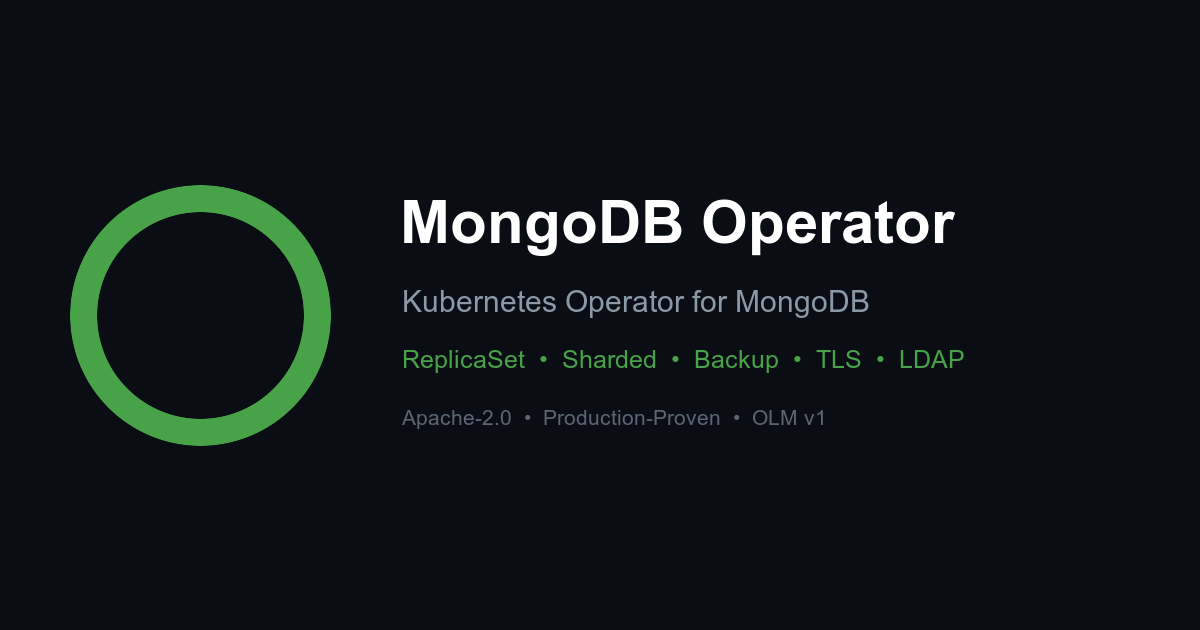
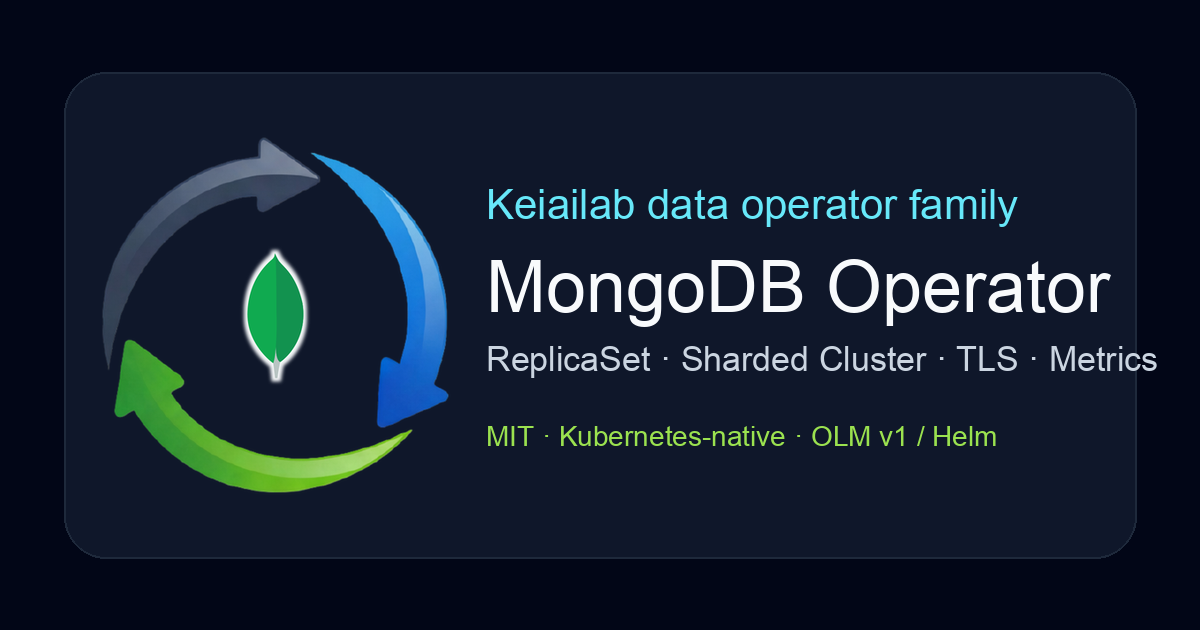
docs(branding): apply centered service symbol

Changed region(s): [[0.0308, 0.2111, 0.9867, 0.7841], [0.0925, 0.8746, 0.925, 0.9048], [0.0925, 0.0905, 0.925, 0.1206]]

diff --git a/docs/branding.md b/docs/branding.md
@@ -28,14 +28,15 @@ This document is the canonical reference for `mongodb-operator` branding decisio
 
 | Asset | URL | Usage |
 |---|---|---|
-| Primary logo (current) | `https://github.com/keiailab.png` | README header (all repos), slides |
-| Primary logo (SVG, planned) | `https://keiailab.com/assets/logo.svg` *(not yet published)* | future replacement for GitHub avatar |
-| Mono mark (planned) | `https://keiailab.com/assets/mark.svg` *(not yet published)* | Favicon, social cards |
+| Primary logo (current) | `docs/branding/symbol.png` | README header (all repos), slides |
+| Repository wordmark | `docs/branding/logo.png` | Project pages |
+| Social cover | `docs/branding/cover.png` | Social cards and launch posts |
+| Current favicon | `https://keiailab.com/favicon.ico` | Favicon, social cards |
 | Wordmark (planned) | `https://keiailab.com/assets/wordmark.svg` *(not yet published)* | Footer, dark backgrounds |
 
-**Logo placement**: Top-center of README, width 120px. Always link to https://github.com/keiailab.
+**Logo placement**: Top-center of README, width 96px. Always link to https://keiailab.com.
 
-**Migration note (2026-05-21)**: until `keiailab.com/assets/*.svg` is published, all repos in the family use the GitHub avatar (`https://github.com/keiailab.png`) as canonical primary logo. The SVG row is reserved for the future migration.
+**Symbol note (2026-06-11)**: the primary symbol keeps the Keiailab rotating-arrow mark and replaces only the removed center sphere with the service icon.
 
 **Clear space**: Minimum padding around logo = 25% of logo width.
 
@@ -87,7 +88,7 @@ GitHub README 의 shield.io badge 는 위 hex 사용 권장.
 
 ```markdown
 <p align="center">
-  <img src="https://github.com/keiailab.png" alt="keiailab" width="120"/>
+  <img src="docs/branding/symbol.png" alt="keiailab" width="96"/>
 </p>
 
 # mongodb-operator
@@ -95,7 +96,7 @@ GitHub README 의 shield.io badge 는 위 hex 사용 권장.
 > **MIT MongoDB Operator for Kubernetes — ReplicaSet + Sharded Cluster + Backup, vanilla MongoDB 7.0+**
 
 <p align="center">
-  <a href="LICENSE"><img src="https://img.shields.io/badge/License-MIT-yellow.svg" alt="License"/></a>
+  <a href="LICENSE"><img src="https://img.shields.io/badge/License-MIT-0EA5A8.svg" alt="License"/></a>
   <!-- 기존 shield.io badges 유지 + 정합 -->
 </p>
 

diff --git a/docs/i18n/ko/branding.md b/docs/i18n/ko/branding.md
@@ -30,14 +30,15 @@
 
 | 자산 | URL | 용도 |
 |---|---|---|
-| Primary logo (현재) | `https://github.com/keiailab.png` | README header (전 리포), 슬라이드 |
-| Primary logo (SVG, 예정) | `https://keiailab.com/assets/logo.svg` *(아직 미공개)* | GitHub avatar 의 향후 대체 |
-| Mono mark (예정) | `https://keiailab.com/assets/mark.svg` *(아직 미공개)* | Favicon, 소셜 카드 |
+| Primary logo (현재) | `docs/branding/symbol.png` | README header (전 리포), 슬라이드 |
+| Repository wordmark | `docs/branding/logo.png` | Project page |
+| Social cover | `docs/branding/cover.png` | Social cards 및 launch posts |
+| Current favicon | `https://keiailab.com/favicon.ico` | Favicon, social cards |
 | Wordmark (예정) | `https://keiailab.com/assets/wordmark.svg` *(아직 미공개)* | Footer, 어두운 배경 |
 
-**Logo placement**: README 의 상단 중앙, 너비 120px. 항상 https://github.com/keiailab 으로 링크.
+**Logo placement**: README 의 상단 중앙, 너비 96px. 항상 https://keiailab.com 으로 링크.
 
-**Migration note (2026-05-21)**: `keiailab.com/assets/*.svg` 가 게시되기 전까지, family 전 리포는 GitHub avatar (`https://github.com/keiailab.png`) 를 canonical primary logo 로 사용. SVG 행은 향후 마이그레이션용 예약.
+**Symbol note (2026-06-11)**: primary symbol 은 Keiailab rotating-arrow mark 를 유지하고, 제거된 중앙 구 위치에만 service icon 을 둔다.
 
 **Clear space**: 로고 주위 최소 여백 = 로고 너비의 25%.
 
@@ -89,7 +90,7 @@ GitHub README 의 shield.io badge 는 위 hex 사용 권장.
 
 ```markdown
 <p align="center">
-  <img src="https://github.com/keiailab.png" alt="keiailab" width="120"/>
+  <img src="docs/branding/symbol.png" alt="keiailab" width="96"/>
 </p>
 
 # mongodb-operator
@@ -97,7 +98,7 @@ GitHub README 의 shield.io badge 는 위 hex 사용 권장.
 > **MIT MongoDB Operator for Kubernetes — ReplicaSet + Sharded Cluster + Backup, vanilla MongoDB 7.0+**
 
 <p align="center">
-  <a href="LICENSE"><img src="https://img.shields.io/badge/License-MIT-yellow.svg" alt="License"/></a>
+  <a href="LICENSE"><img src="https://img.shields.io/badge/License-MIT-0EA5A8.svg" alt="License"/></a>
   <!-- 기존 shield.io badges 유지 + 정합 -->
 </p>
 

diff --git a/docs/i18n/zh/branding.md b/docs/i18n/zh/branding.md
@@ -28,14 +28,15 @@
 
 | 资源 | URL | 用途 |
 |---|---|---|
-| Primary logo (当前) | `https://github.com/keiailab.png` | README header (全部仓库)、幻灯片 |
-| Primary logo (SVG, 计划) | `https://keiailab.com/assets/logo.svg` *(尚未发布)* | GitHub avatar 的未来替代 |
-| Mono mark (计划) | `https://keiailab.com/assets/mark.svg` *(尚未发布)* | Favicon、社交卡片 |
+| Primary logo (当前) | `docs/branding/symbol.png` | README header (全部仓库)、幻灯片 |
+| Repository wordmark | `docs/branding/logo.png` | Project pages |
+| Social cover | `docs/branding/cover.png` | Social cards and launch posts |
+| Current favicon | `https://keiailab.com/favicon.ico` | Favicon, social cards |
 | Wordmark (计划) | `https://keiailab.com/assets/wordmark.svg` *(尚未发布)* | 页脚、深色背景 |
 
-**Logo placement**: README 顶部居中,宽度 120px。始终链接到 https://github.com/keiailab。
+**Logo placement**: README 顶部居中,宽度 96px。始终链接到 https://keiailab.com。
 
-**Migration note (2026-05-21)**: 在 `keiailab.com/assets/*.svg` 发布之前,family 全部仓库均使用 GitHub avatar (`https://github.com/keiailab.png`) 作为 canonical primary logo。SVG 行为未来迁移预留。
+**Symbol note (2026-06-11)**: primary symbol keeps the Keiailab rotating-arrow mark and places the service icon at the removed center sphere position.
 
 **Clear space**: Logo 周围最小留白 = logo 宽度的 25%。
 
@@ -87,7 +88,7 @@ GitHub README 的 shield.io badge 建议使用上述 hex。
 
 ```markdown
 <p align="center">
-  <img src="https://github.com/keiailab.png" alt="keiailab" width="120"/>
+  <img src="docs/branding/symbol.png" alt="keiailab" width="96"/>
 </p>
 
 # mongodb-operator
@@ -95,7 +96,7 @@ GitHub README 的 shield.io badge 建议使用上述 hex。
 > **MIT MongoDB Operator for Kubernetes — ReplicaSet + Sharded Cluster + Backup, vanilla MongoDB 7.0+**
 
 <p align="center">
-  <a href="LICENSE"><img src="https://img.shields.io/badge/License-MIT-yellow.svg" alt="License"/></a>
+  <a href="LICENSE"><img src="https://img.shields.io/badge/License-MIT-0EA5A8.svg" alt="License"/></a>
   <!-- 기존 shield.io badges 유지 + 정합 -->
 </p>
 

diff --git a/README.md b/README.md
@@ -1,14 +1,26 @@
+<p align="center">
+  <a href="https://keiailab.com">
+    <img src="docs/branding/symbol.png" alt="keiailab" width="96"/>
+  </a>
+</p>
+
 # mongodb-operator
+
+> **Keiailab data operator family** — MongoDB replica sets and sharded clusters on Kubernetes with TLS, metrics, and declarative topology.
+
+<p align="center">
+  <a href="LICENSE"><img src="https://img.shields.io/badge/License-MIT-0EA5A8.svg" alt="License: MIT"/></a>
+  <a href="go.mod"><img src="https://img.shields.io/badge/Go-1.26-00ADD8?logo=go&logoColor=white" alt="Go 1.26"/></a>
+  <a href="#supported-mongodb-versions"><img src="https://img.shields.io/badge/MongoDB-8.0%20|%208.2%20|%208.3-47A248?logo=mongodb&logoColor=white" alt="MongoDB 8.x"/></a>
+  <a href="#requirements"><img src="https://img.shields.io/badge/Kubernetes-1.26%2B-326CE5?logo=kubernetes&logoColor=white" alt="Kubernetes 1.26+"/></a>
+  <a href="https://github.com/keiailab/mongodb-operator/pkgs/container/mongodb-operator"><img src="https://img.shields.io/badge/GHCR-mongodb--operator-0EA5A8?logo=github&logoColor=white" alt="GHCR image"/></a>
+  <a href="https://github.com/keiailab/mongodb-operator/discussions"><img src="https://img.shields.io/github/discussions/keiailab/mongodb-operator?label=discussions&logo=github" alt="GitHub Discussions"/></a>
+</p>
 
 A Kubernetes operator for running MongoDB on Kubernetes. It manages the lifecycle
 of MongoDB replica sets and sharded clusters through Custom Resources — bootstrapping
 the cluster, creating the admin user, wiring up TLS and metrics, and reconciling
 the desired topology.
-
-[![License: MIT](https://img.shields.io/badge/License-MIT-yellow.svg)](LICENSE)
-[![Go](https://img.shields.io/badge/Go-1.26-00ADD8?logo=go)](go.mod)
-[![MongoDB](https://img.shields.io/badge/MongoDB-8.0%20|%208.2%20|%208.3-47A248?logo=mongodb)](#supported-mongodb-versions)
-[![Kubernetes](https://img.shields.io/badge/Kubernetes-1.26+-326CE5?logo=kubernetes)](#requirements)
 
 The operator does not bundle or redistribute MongoDB. It pulls the official
 `mongo` community images at runtime and orchestrates them; you remain responsible

diff --git a/docs/i18n/ko/readme.md b/docs/i18n/ko/readme.md
@@ -1,5 +1,5 @@
 <p align="center">
-  <img src="https://github.com/keiailab.png" alt="keiailab" width="120"/>
+  <img src="../../branding/symbol.png" alt="keiailab" width="96"/>
 </p>
 
 # mongodb-operator (한국어)
@@ -9,7 +9,7 @@
 > **MIT MongoDB Operator for Kubernetes — ReplicaSet + Sharded Cluster + Backup, vanilla MongoDB 7.0+**
 
 <p align="center">
-  <a href="https://opensource.org/licenses/MIT"><img src="https://img.shields.io/badge/License-MIT-yellow.svg" alt="라이선스"/></a>
+  <a href="https://opensource.org/licenses/MIT"><img src="https://img.shields.io/badge/License-MIT-0EA5A8.svg" alt="라이선스"/></a>
   <a href="https://golang.org/"><img src="https://img.shields.io/badge/Go-1.25+-00ADD8?logo=go" alt="Go 버전"/></a>
   <a href="https://www.mongodb.com/"><img src="https://img.shields.io/badge/MongoDB-7.0%2B-47A248?logo=mongodb" alt="MongoDB"/></a>
   <a href="https://kubernetes.io/"><img src="https://img.shields.io/badge/Kubernetes-1.26+-326CE5?logo=kubernetes" alt="Kubernetes"/></a>

diff --git a/docs/i18n/ja/readme.md b/docs/i18n/ja/readme.md
@@ -1,5 +1,5 @@
 <p align="center">
-  <img src="https://github.com/keiailab.png" alt="keiailab" width="120"/>
+  <img src="../../branding/symbol.png" alt="keiailab" width="96"/>
 </p>
 
 # mongodb-operator
@@ -7,7 +7,7 @@
 > **Kubernetes 向け MIT MongoDB Operator — ReplicaSet + Sharded Cluster + バックアップ、vanilla MongoDB 7.0+**
 
 <p align="center">
-  <a href="https://opensource.org/licenses/MIT"><img src="https://img.shields.io/badge/License-MIT-yellow.svg" alt="License"/></a>
+  <a href="https://opensource.org/licenses/MIT"><img src="https://img.shields.io/badge/License-MIT-0EA5A8.svg" alt="License"/></a>
   <a href="https://golang.org/"><img src="https://img.shields.io/badge/Go-1.25+-00ADD8?logo=go" alt="Go Version"/></a>
   <a href="https://www.mongodb.com/"><img src="https://img.shields.io/badge/MongoDB-7.0%2B-47A248?logo=mongodb" alt="MongoDB"/></a>
   <a href="https://kubernetes.io/"><img src="https://img.shields.io/badge/Kubernetes-1.26+-326CE5?logo=kubernetes" alt="Kubernetes"/></a>

diff --git a/docs/i18n/zh/readme.md b/docs/i18n/zh/readme.md
@@ -1,5 +1,5 @@
 <p align="center">
-  <img src="https://github.com/keiailab.png" alt="keiailab" width="120"/>
+  <img src="../../branding/symbol.png" alt="keiailab" width="96"/>
 </p>
 
 # mongodb-operator
@@ -7,7 +7,7 @@
 > **Kubernetes 的 MIT MongoDB Operator — ReplicaSet + Sharded Cluster + 备份,原生 MongoDB 7.0+**
 
 <p align="center">
-  <a href="https://opensource.org/licenses/MIT"><img src="https://img.shields.io/badge/License-MIT-yellow.svg" alt="License"/></a>
+  <a href="https://opensource.org/licenses/MIT"><img src="https://img.shields.io/badge/License-MIT-0EA5A8.svg" alt="License"/></a>
   <a href="https://golang.org/"><img src="https://img.shields.io/badge/Go-1.25+-00ADD8?logo=go" alt="Go Version"/></a>
   <a href="https://www.mongodb.com/"><img src="https://img.shields.io/badge/MongoDB-7.0%2B-47A248?logo=mongodb" alt="MongoDB"/></a>
   <a href="https://kubernetes.io/"><img src="https://img.shields.io/badge/Kubernetes-1.26+-326CE5?logo=kubernetes" alt="Kubernetes"/></a>
